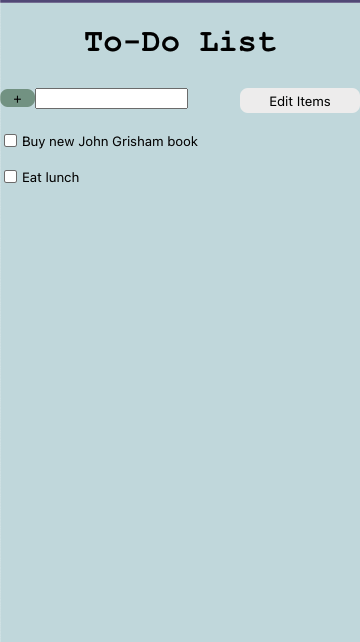
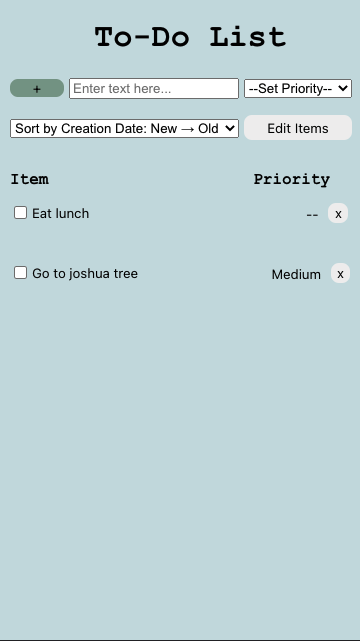
Updated design document

diff --git a/docs/design.md b/docs/design.md
@@ -25,62 +25,60 @@ The main alternative design choice that we discussed was automatically moving co
 
 ## User Testing
 
-For user testing, we showed the application to two friends and had them interact with the interface without any guidance. We found that for each task and at each stage, our design lined up with what the user expected and there were no usability concerns. It was nice to see that our implementation of dimming the plus button for an empty entry was appreciated.
+For user testing, we showed the application to two friends and had them interact with the interface without any guidance. We found that for each task and at each stage, our design lined up with what the user expected and there were no usability concerns. We observed that our implementation of dimming the inputs on edit mode was appreciated. Additionally, people found the descriptions of the sorting drop-down and its design/layout on the screen to be understandable.
 
 ## Final Design
 
-Below we see what the empty list looks like. The add button is dimmed when there is no input in the textbox.
+Below we see what the empty list looks like. The add button is dimmed when there is no input in the textbox. Notably what is different now from the previous iteration is that the empty textbox now prompts the user to enter text and there is also a drop down menu for the user to select the priority of tasks they are going to add.
 
 <img src="images/img1.png" alt="drawing" width="300"/>
 
-Now that there is input to the textbox, the add button brightens to notify the user that they can add the item.
-
-<img src="images/img2.png" alt="drawing" width="300"/>
-
-This is what the user would see if they entered one item into the list, "Buy new John Grisham book" and added it to the list. One important change from our previous design is that now the buttons to "Hide Completed Items" and "Delete Completed Items" are hidden when there are no completed elements, as shown below. We made this decision to simplify the experience for the user and avoid confusion, as the two buttons will not accomplish anything in this state.
+As before, now that there is input to the textbox, the add button brightens to notify the user that they can add the item.
 
 <img src="images/img3.png" alt="drawing" width="300"/>
 
-From the above non-empty list, adding a second item, "Eat Lunch," would look like this.
+This is what the user would see if they entered one item into the list, "Go to Joshua Tree" and added it to the list. Compared to our previous design this is very different. For one, there is now a header that labels the actual item and a header that labels its priority for the user to understand what they represent. Additionally, there is now the ability to directly delete that single item by clicking on the "x" button. This allows users to delete individual items from the list without worrying about disrupting their list of completed items. Finally, here we can see that there is now a dropdown menu to sort items in the list, by name, creation date, and priority. 
+
+<img src="images/img2.png" alt="drawing" width="300"/>
+
+If a user adds an item to the list without selecting its priority, the following is what they would see.
 
 <img src="images/img4.png" alt="drawing" width="300"/>
 
 
-If the user clicked on the checkbox or its label for an item in the list, we will display buttons for hiding or deleting completed items.
+If a user clicks on the checkbox or its label for an item in the list, we not only display buttons for hiding or deleting completed items as before, but the item is now also crossed out, as shown below.
 
 <img src="images/img5.png" alt="drawing" width="300"/>
 
-If the user wanted to rename "Buy new John Grisham book," they would press "Edit Items" and would be presented with the below screen. The checkbox turns into an editable text box and the button changes from "Edit Items" to "Save Changes."
+If the user wanted to rename "Eat Lunch," they would press "Edit Items" and would be presented with the below screen. The checkbox turns into an editable text box and the button changes from "Edit Items" to "Done." Previously, this button said "Save Changes" but this was not accurate as the changes are continuously being saved, so we decided to change the button's label. In this edit screen, they can now also edit the priority of the item. A notable change from our previous iteration is that now, all of the inputs for creating a new item - the add button, the input text field, and the priority dropdown - are all disabled, as is the sorting drop down, and the checkboxes for each item. In the previous iteration users could add items to the list while in edit mode, but in our user testing, we discovered that this was confusing and so we disabled all inputs to create a new list item. Additionally, we believe that sorting the list while in edit mode would be confusing and so we decided to disable it. In our previous design, marking any item as complete was disabled but there was no visual indication for this, and so in this iteration we dim and disable the checkboxes in edit mode. Finally, we have removed the button to delete all completed items from the list while in edit mode, so as to create constraints and not overwhelm the user with possible actions.
 
 <img src="images/img6.png" alt="drawing" width="300"/>
 
-Then, when they press "Save Changes" they would be presented with the default list view.
+Then, when they press "Done" they would be presented with the default list view.
 
 If a user had a list of multiple items, some of which had been marked complete, they would see the following.
 
 <img src="images/img7.png" alt="drawing" width="300"/>
 
-If they pressed the "Hide Completed Items" button at the bottom of the screen, the would see the following. Notice that the button changes to say "Show Completed Items." We also added a transition where the elements that get hidden fade out of view instead of disappear immediately. This helps the user understand where these list items are going.
+If they then pressed the "Hide Completed Items" button at the bottom of the screen, the would see the following. Notice that the button changes to say "Show Completed Items." The elements that get hidden fade out of view instead of disappear immediately, which helps the user understand where these list items are going. In this iteration, we have decided to remove the "Delete Completed Items" button while completed items are being hidden. This prevents the user from accidentally deleting items they did not intend to since they cannot see what they are deleting.
 
 <img src="images/img8.png" alt="drawing" width="300"/>
 
-If the user clicked the "Delete Completed Items" button, they would be presented with the following warning screen.
+We have not made any changes to the flow once a user presses "Delete Completed Items."
 
-<img src="images/img9.png" alt="drawing" width="300"/>
+One visual change made from the previous iteration is that now if a user has many items on the list, they can scroll through them. Previously, the buttons to hide and delete completed items would get pushed off the screen, but now they are fixed and the list is scrollable, as shown in the two images below.
 
-After pressing confirm, they would be presented with a list with only the uncompleted items, like the one below.
-
-<img src="images/img10.png" alt="drawing" width="300"/>
-
+<img src="images/img9.png" alt="drawing" width="300"/><img src="images/img10.png" alt="drawing" width="300"/>
 
 ## Challenges
-One challenge we came across was deciding how to facilitate editing of the list items. One possibility was to mimic the behaviour of the Apple Notes app, where you can click on the items at any time and have the keyboard and cursor appear. However, we wanted to have a designated button so that the user would know that it was possible. This is how we decided on adding the "Edit Items" button.
+A significant challenge that we faced in this version of our application was getting the sorting functionality to work as intended. Particularly, we discovered that when attempting to sort by priority, Firestore was only able to do an alphnumerical sorting of the three priority levels - high, medium, and low - and so they did not sort in the way we intended. To solve this, the priority attribute is actually an object with a key/value pair. We display the values, which are high, medium, and low, and we sort by the keys, which are just characters assigned such that they sort in the intended fashion. 
 
-Another challenge we faced was deciding what deleting completed items should look like. We knew that we couldn't simply delete them with only one prompt from the user (i.e., clicking the "Delete" button once). After some consideration, we decided on including a pop-up window that asks the user to confirm their intent on deleting the completed items after they hit the button. We also made the "Delete" button red as an indication of its function.
-
-We also had challenges figuring out how to wrap long text, as our implementation method of using text inputs did not allow for text on multiple lines. We resolved this by using textarea elements instead.
+One challenge that we were unable to solve, for a similar reason, was that when in edit mode, changes to the list item would cause the items to move around depending on the sorting preference. We attempted to store the order of list items when the user presses the edit button and sort by this order, but again due to Firestore's necessity of sorting alphanumerical sorting, we were unable to create a custom sorting function that would allow us to accomplish this. 
 
 ## Pride Points
-We are most proud of the flow for deleting completed items. We put some thought into this flow, and as a result made the "delete" button red and created a pop-up window so that the user would have to confirm that they really wanted to delete their items. Additionally, when the user deletes or hides completed items, they slowly fade out rather than immediately disappearing.
+
+We are most proud of our thoughtfulness and incorporation of ideas as to how a user would actually want to interact with this product. For example, the user can select a priority for a task when creating it, but they are not forced to do so. The attention to detail in ensuring that the menu elements in the top two rows are all aligned are also things we are proud of.
+
+We are proud of the flow for deleting  items. We put some thought into this flow, and as a result made the "Delete all Completed Items" button red and created a pop-up window so that the user would have to confirm that they really wanted to delete their items. Additionally, when the user deletes or hides completed items, they slowly fade out rather than immediately disappearing. Moreover, on the desktop, if a user highlights over the X button to delete an item, it turns red just as the delete all completed items button is, which creates a unified design language that is understandable. 
 
 We are also proud of our user testing. When we asked a couple of friends how they would go about adding items, editing their names, hiding completed items, and deleting completed items, they followed the exact steps that we had in mind during our design.
